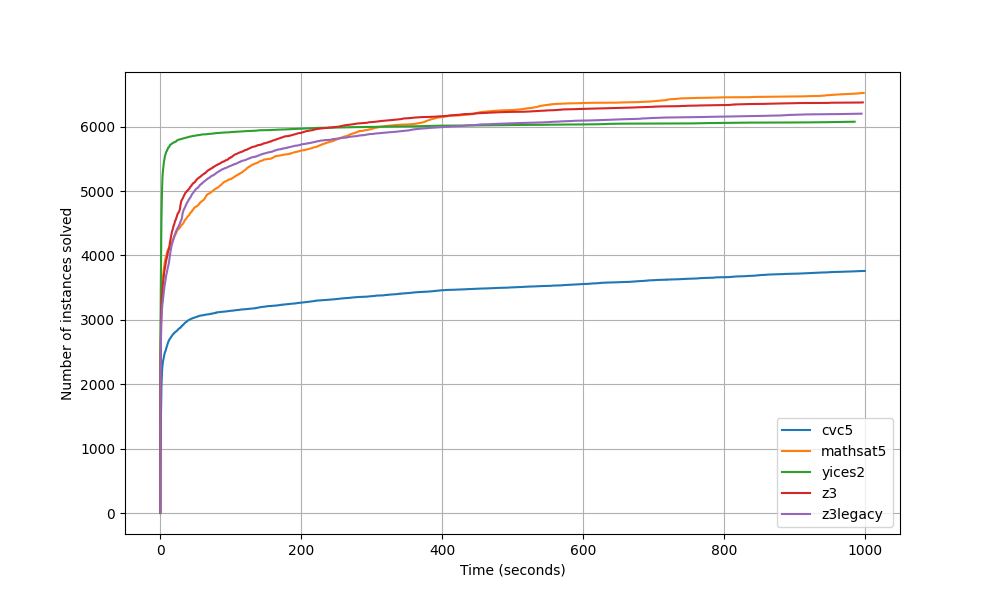
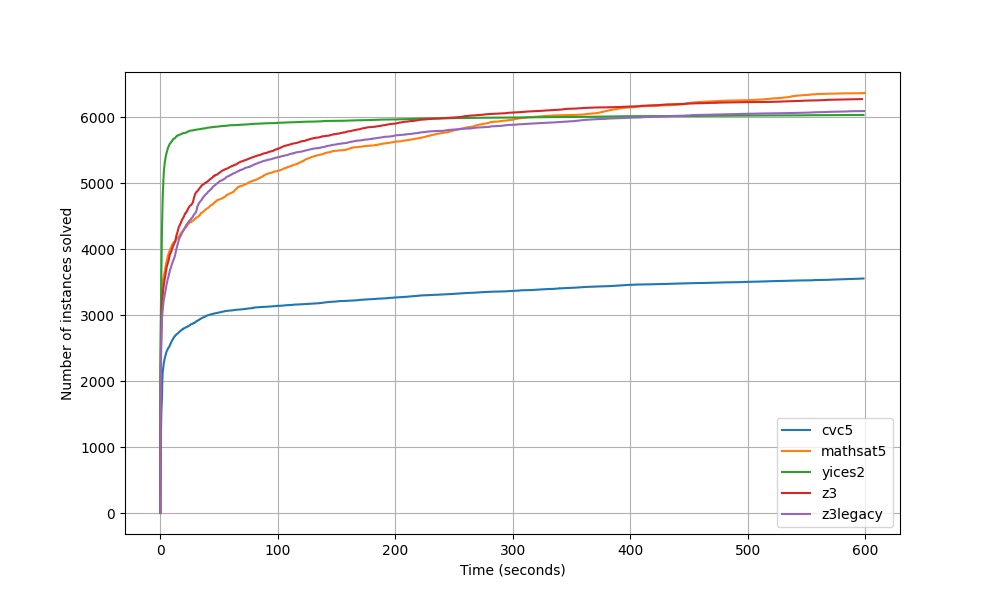
working on evaluation

diff --git a/arithmetic/data/cactus.py b/arithmetic/data/cactus.py
@@ -39,7 +39,9 @@ class Stats:
                     self.feature = row[1].split('=',1)[0]
                     self.feature = remove_prefix(self.feature)
                     self.feature = self.feature.replace("_","-")                                        
-                    self.feature = self.feature.replace(", 1000","")                                        
+                    self.feature = self.feature.replace(", 1000","")
+                    self.feature = self.feature.replace("enable-gcd","gcd")
+                                                            
                     continue
                 if count == 1:
                     index = 0
@@ -53,7 +55,8 @@ class Stats:
                 is_unsat = int(row[col2index["# UNSAT"]])
                 if is_sat==1 or is_unsat==1:
                     t_cpu = float(row[col2index["T_wc"]])
-                    self.times.append(t_cpu)
+                    if t_cpu < 600:
+                        self.times.append(t_cpu)
  
     def draw_cactus_plot(self):
         sorted_times = sorted(self.times)

diff --git a/arithmetic/paper/evaluation.tex b/arithmetic/paper/evaluation.tex
@@ -89,15 +89,15 @@ or due to unsupported features. The version of Z3 used for the experiments corre
 \begin{figure}[htbp]
   \centering
   \begin{tabular}{cc}
-    \includegraphics[width=0.45\textwidth]{../data/compare-benchmark-submission.png} &
-    \includegraphics[width=0.45\textwidth]{../data/compare-qf-lia.png} \\
-    (a) Compare solvers on Certora Benchmarks &
-    (b) Compare solvers on QF-LIA \\
+    \includegraphics[width=0.45\textwidth]{../data/benchmark-submission.png} &
+    \includegraphics[width=0.45\textwidth]{../data/qf-lia.png} \\
+    (a) Disabling features on Certora Benchmarks &
+    (b) Disabling features on QF-LIA \\
     \multicolumn{2}{c}{
-      \includegraphics[width=0.45\textwidth]{../data/compare-qf-nia.png}
+      \includegraphics[width=0.45\textwidth]{../data/qf-nia-small.png}
     } \\
     \multicolumn{2}{c}{
-      (c) Compare solvers on QF-NIA
+      (c) Disabling features on QF-NIA
     } \\
   \end{tabular}
  
